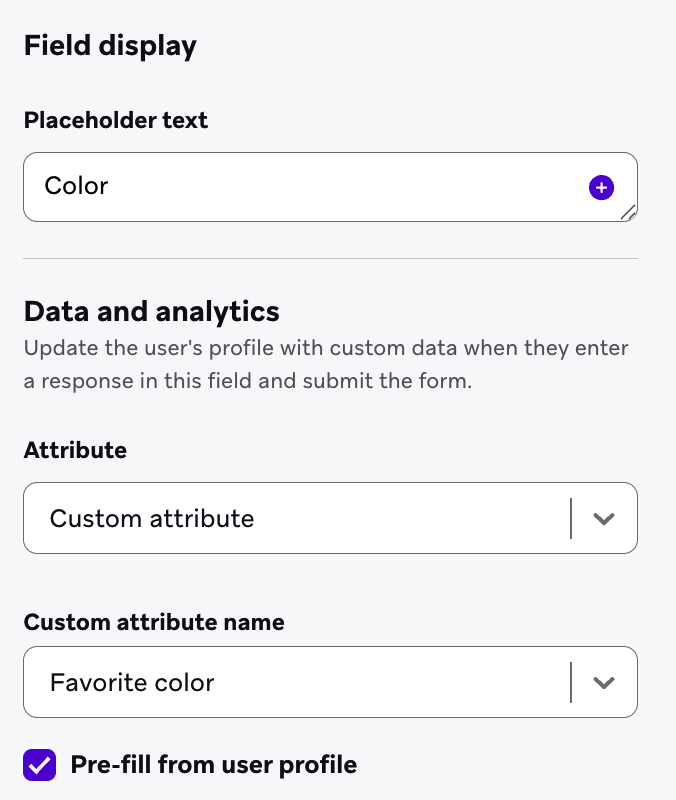
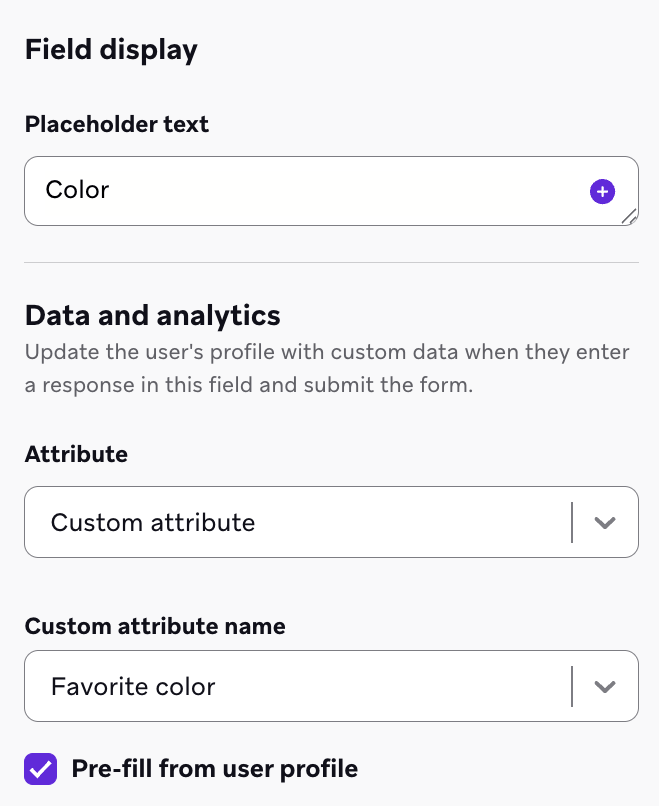
Add pre-fill form field guidance for landing pages personalization (#13900)

diff --git a/_docs/_user_guide/messaging/landing_pages/personalize_landing_pages.md b/_docs/_user_guide/messaging/landing_pages/personalize_landing_pages.md
@@ -50,6 +50,23 @@ Liquid can customize the landing page experience for both identified and anonymo
 - **Identified users:** Link to the landing page from a Braze message and include the [landing page Liquid tag]({{site.baseurl}}/user_guide/messaging/landing_pages/tracking_users/#using-landing-page-liquid-tags). This associates the user with their Braze profile and personalizes the page experience.
 - **Anonymous visitors:** Use Liquid for contextual, non-profile-based content, such as a random number or a time-of-day greeting.
 
+### Pre-fill form fields
+
+If a landing page form field maps to a user profile attribute, you can pre-fill that field for returning users. This helps reduce form friction and improves completion rates for known visitors.
+
+Use pre-fill form fields:
+
+1. Select your form field in the drag-and-drop editor.
+2. In the right-hand settings panel, map the field to the appropriate profile attribute.
+3. Select **Pre-fill from user profile**.
+
+![Landing page form field settings showing the option to pre-fill from user profile data.]({% image_buster /assets/img/landing_pages/pre-fill-checkbox.png %}){: style="max-width:70%;"}
+
+Pre-filling only works for [identified users](#use-liquid-for-identified-and-anonymous-users). For anonymous visitors, form fields keep their default state:
+
+- **Input fields:** Display their placeholder text.
+- **Checkboxes, radio buttons, and similar controls:** Remain unselected until the user interacts with them.
+
 ## Fetching external data with custom code
 
 You can use a **Custom Code** block to fetch data from external endpoints and display it in your landing page. This approach makes the request on the client side (in the user's browser), so the page loads quickly without server-side rendering delays.
